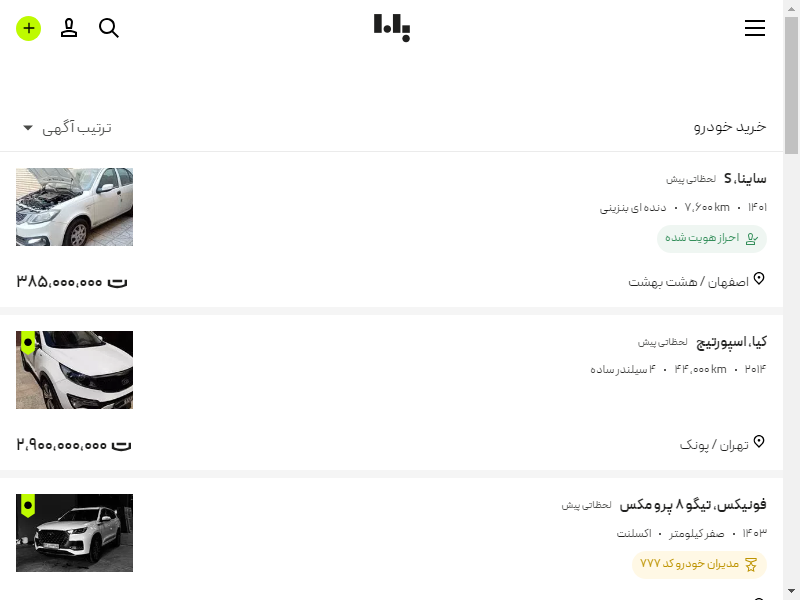
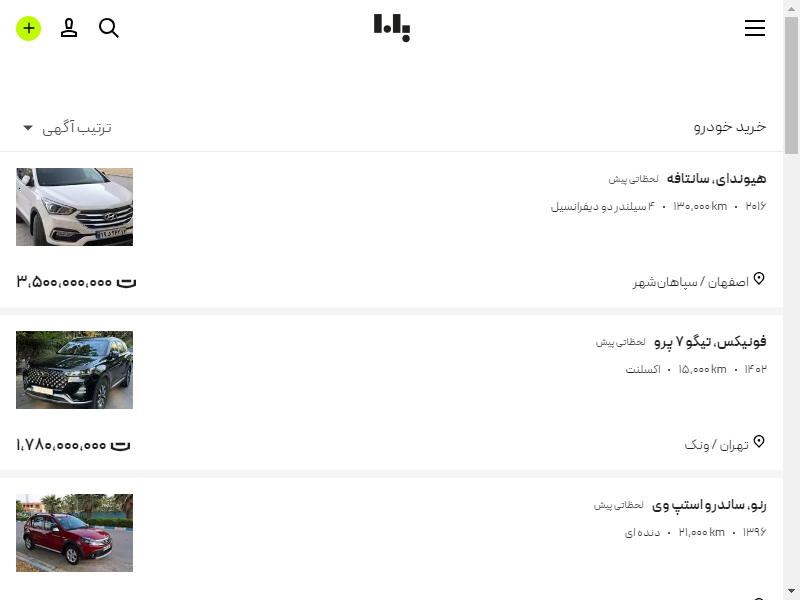
فقط سه بار صفحه اسکرول شود

diff --git a/index2.js b/index2.js
@@ -102,7 +102,9 @@ const fetchCrsWithScroll = async () => {
     const newHeight = await page.evaluate("document.body.scrollHeight"); // هر بار که اسکرول میشه فضای اسکرول مجددا اضافه میشه
 
     // اگر به آخر صفحه رسیدیم اطلاعات صفحه رو بخونیم و بریک کن از صفحه برو بیرون
-    if (newHeight === lastHeight){
+    // if (newHeight === lastHeight){
+      // حالا ما نمیخواهیم همه صفحه رو تا آخر بخونیم میخواهیم فقط سه بار  خونده شه سه بار اسکرول شه
+      if (lastHeight > 3 * first_height){  
       html = await page.content();
       break;
     }
